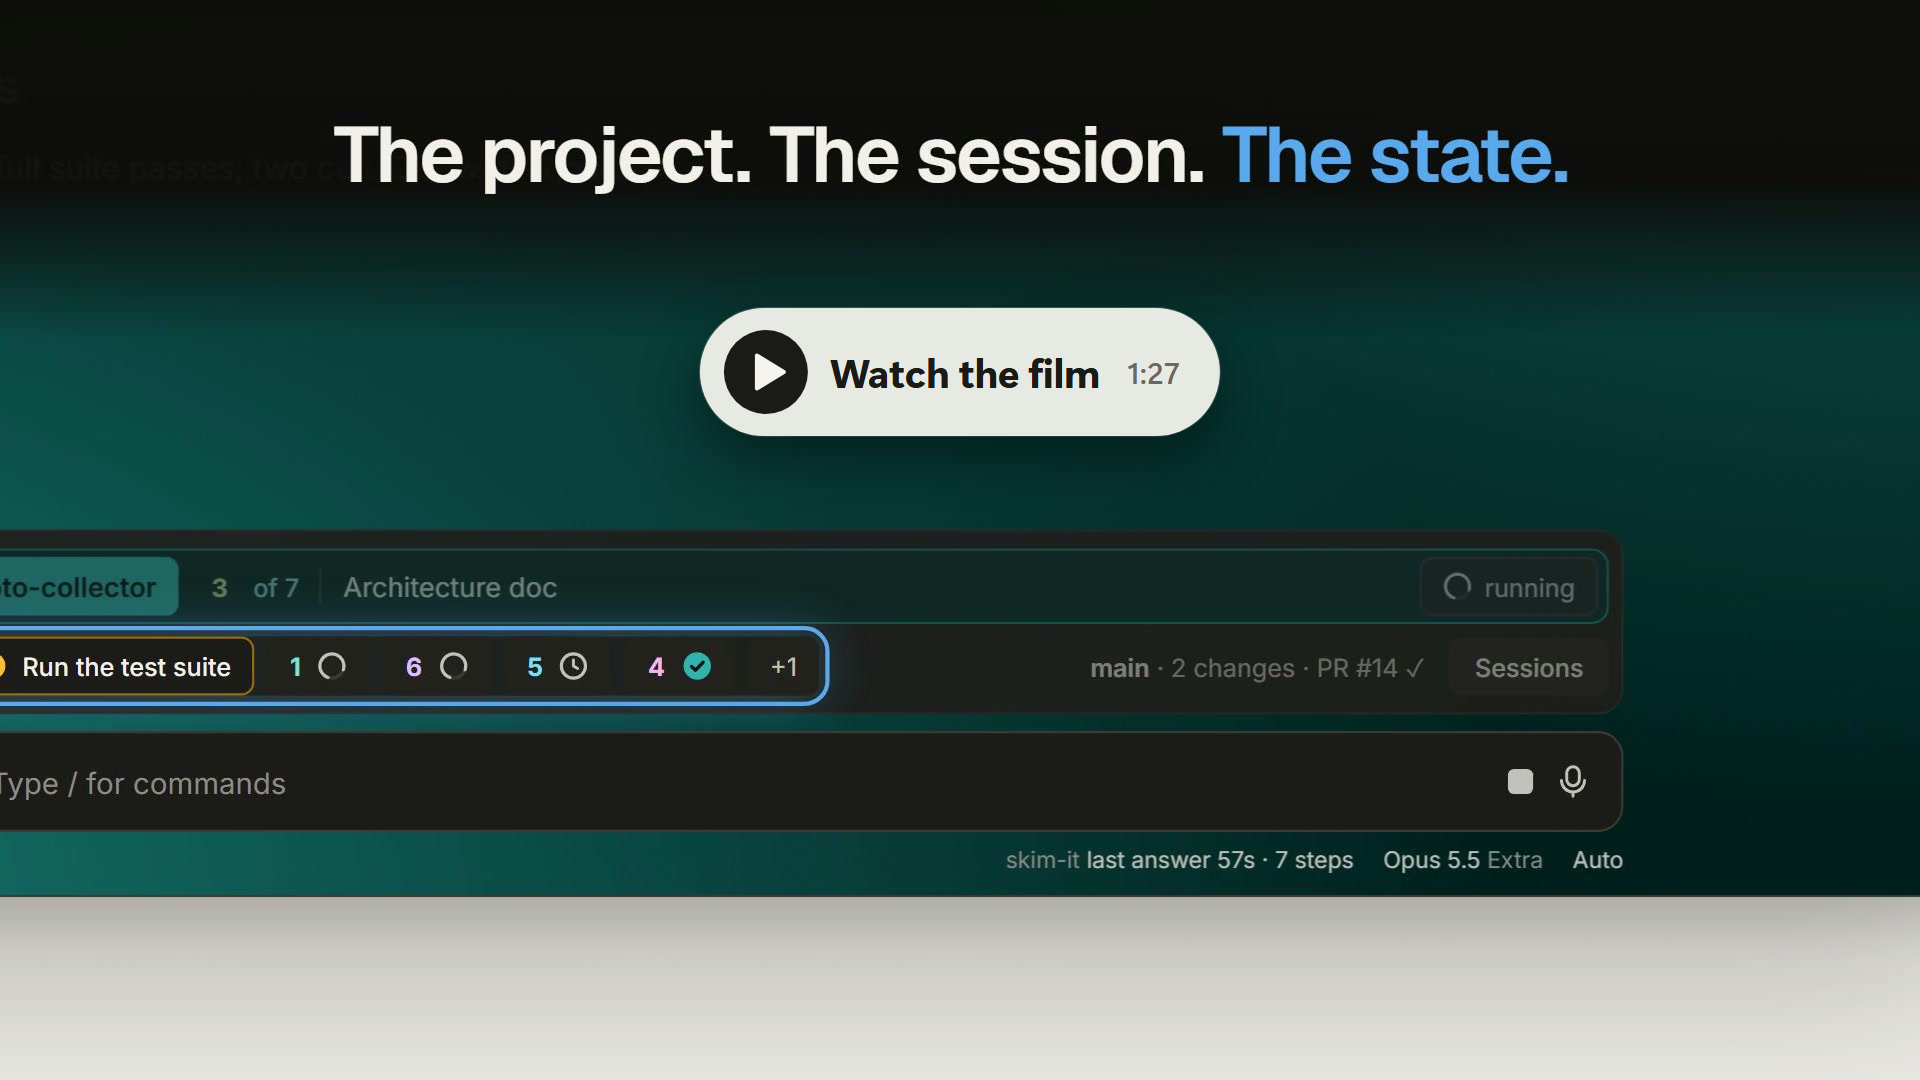
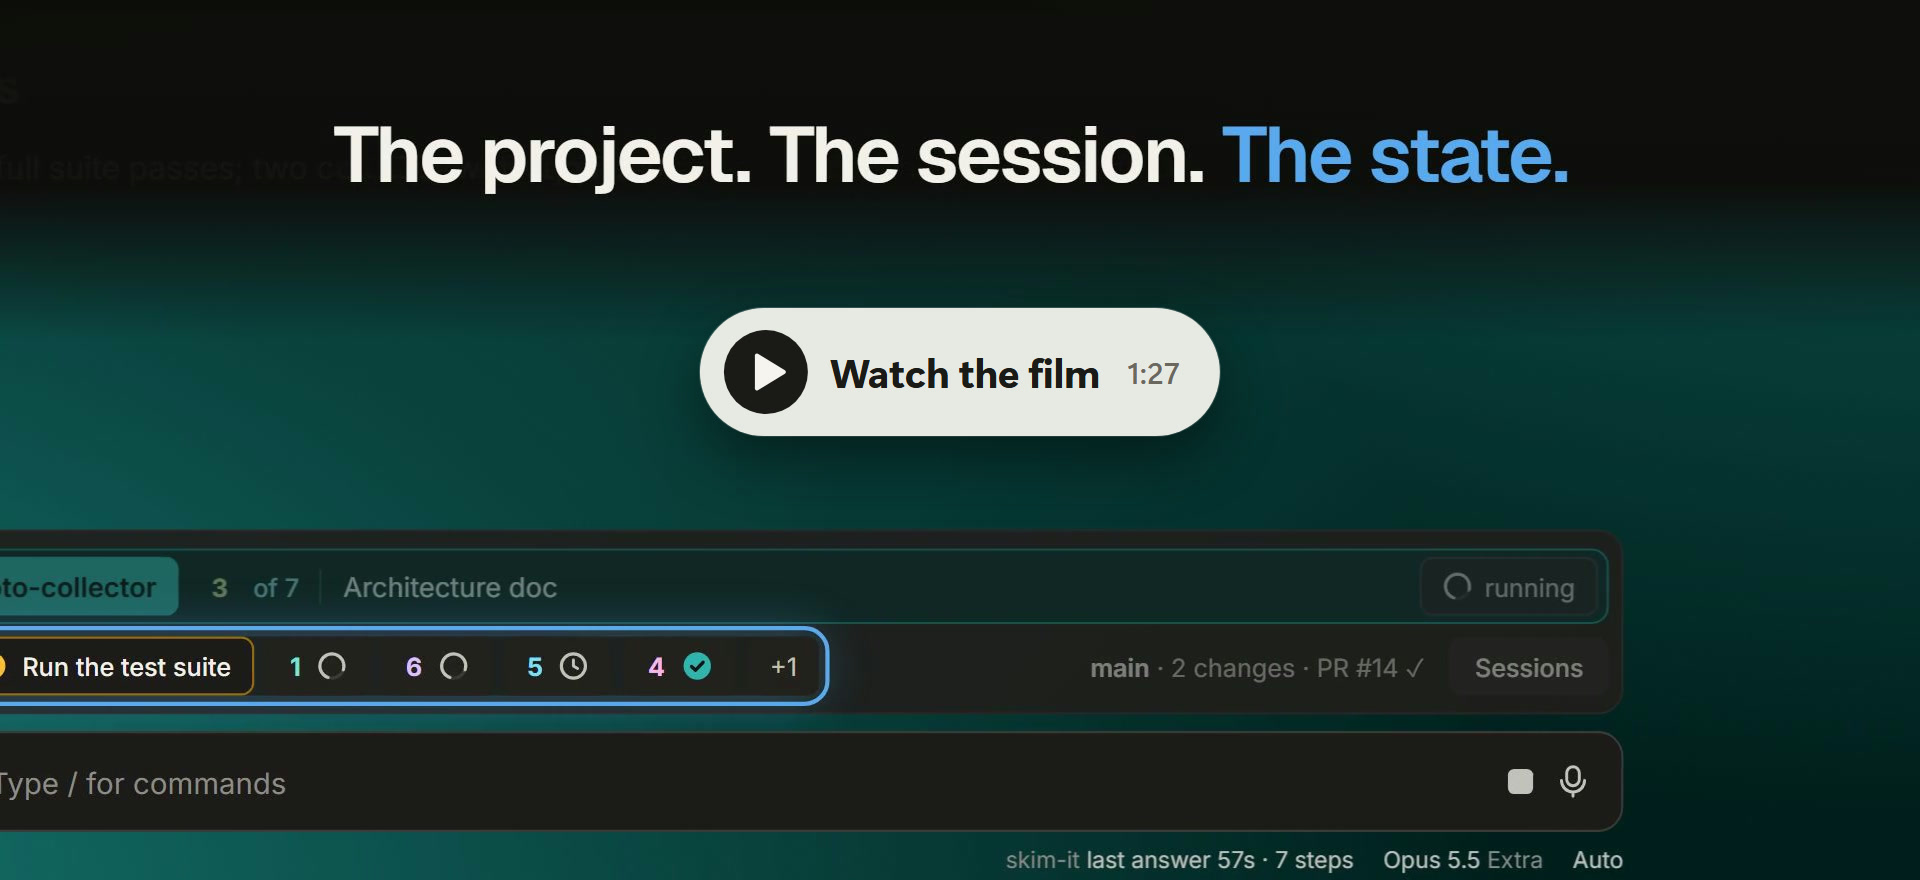
Media: three-state background still, poster without the stage band; drop unused GIFs

diff --git a/index.html b/index.html
@@ -13,7 +13,7 @@
 <meta property="og:url" content="https://lunkibr.github.io/skim-it/">
 <meta property="og:image" content="https://lunkibr.github.io/skim-it/frames/poster.jpg">
 <meta property="og:image:width" content="1920">
-<meta property="og:image:height" content="1080">
+<meta property="og:image:height" content="880">
 <meta property="og:video" content="https://lunkibr.github.io/skim-it/film/skim-it.mp4">
 <meta property="og:video:type" content="video/mp4">
 <meta property="og:video:width" content="1920">

diff --git a/README.md b/README.md
@@ -8,7 +8,7 @@ It is kept apart from `main` so installing the mod never downloads them.
 | `index.html` | The film page, served at https://lunkibr.github.io/skim-it/ |
 | `film/skim-it.mp4` | The launch film (1:27, 1080p, sound on) |
 | `gifs/` | Short loops cut from the film, 880 px wide |
-| `frames/` | Stills from the film, 1920 x 1080, the README poster and the player's title card |
+| `frames/` | Stills from the film (1920 x 1080), the README poster (1920 x 880) and the player's title card |
 | `brand/` | The logo, for the film page |
 
 The film redraws Claude Code Desktop in code with the mod's own band, colors and backgrounds, and a demo fleet of seven sessions.
